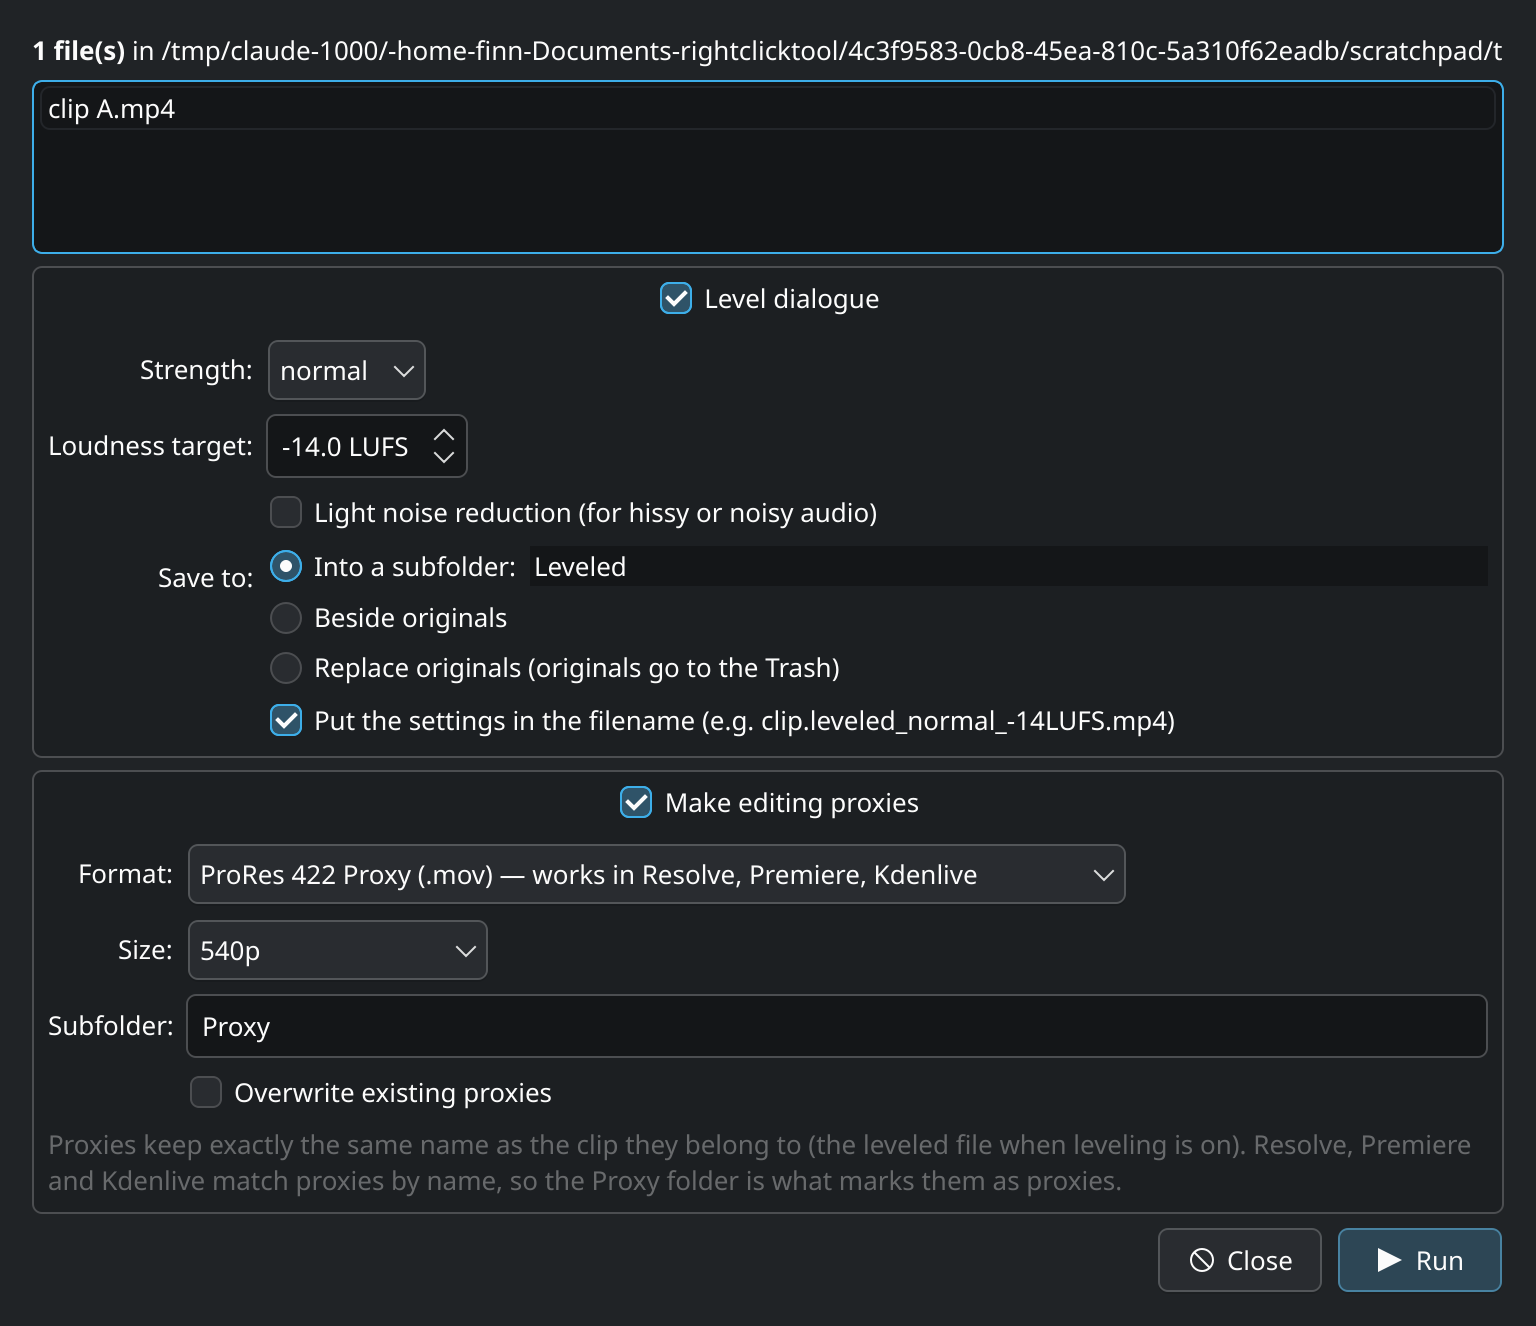
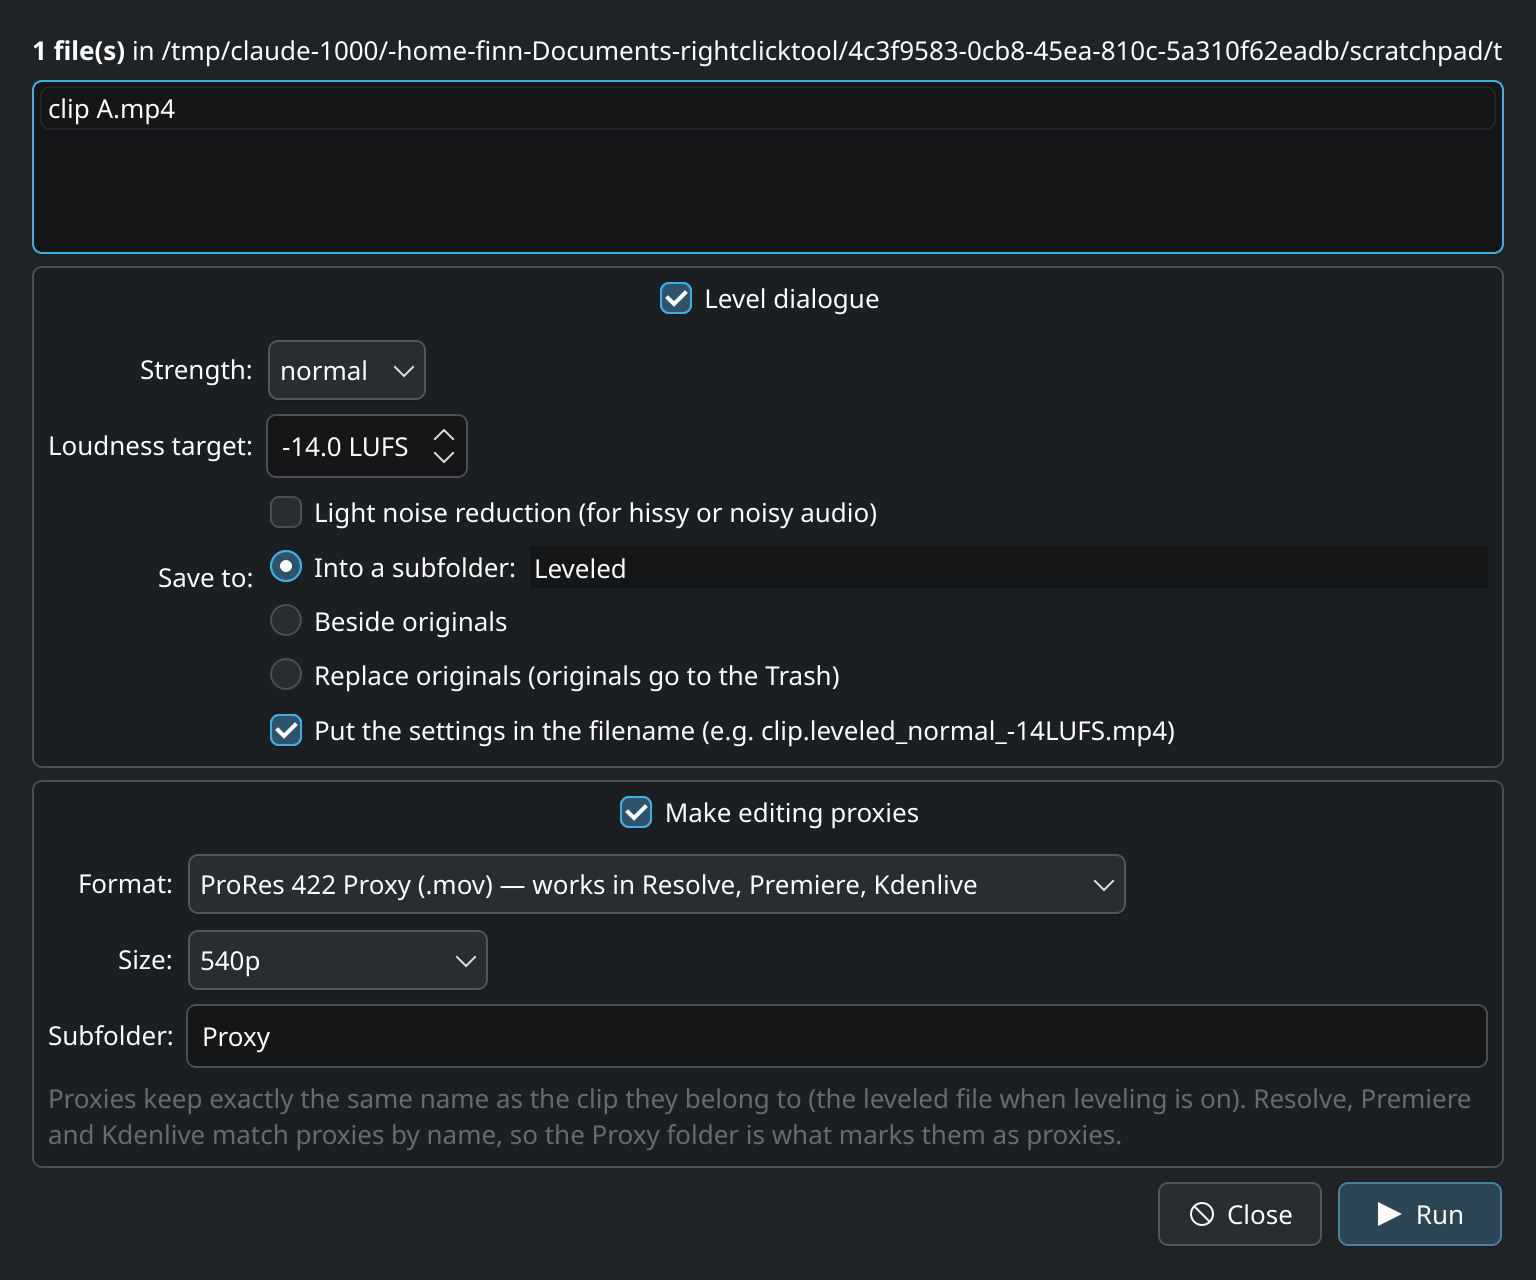
Ask to replace or skip when outputs already exist

diff --git a/SPEC.md b/SPEC.md
@@ -43,7 +43,10 @@ exactly what to do to the selected footage, then runs it with visible progress.
 - Frame rate and audio-track count/channels must match the source (Premiere attach requirement).
 - Size by short side (540/720/1080) or fraction (½, ¼); never upscale; dimensions even.
 - All audio tracks are kept so editors see the same track layout.
-- Existing proxies are skipped unless “Overwrite existing proxies” is ticked.
+- Existing outputs: before the run, check every planned leveled file and proxy. If any exist,
+  show one popup per type (leveled / proxies) listing them, with Replace / Skip existing
+  (default) / Cancel. Skipping a leveled file still uses it as the proxy source. Replace
+  overwrites the old output only after the new one has been written successfully.
 - Audio-only files are skipped for proxies.
 
 ## Open questions / ideas

diff --git a/README.md b/README.md
@@ -19,6 +19,10 @@ right-click → **Footage tools…**, tick what you want, press **Run**.
 Proxy formats: ProRes 422 Proxy `.mov` (default), DNxHR LB `.mov`, H.264 all-intra `.mp4` (smallest, but the free DaVinci Resolve on Linux cannot decode H.264 or AAC).
 Sizes: 540p (default), 720p, 1080p, half, quarter. Portrait clips scale by their short side; never upscales.
 
+If leveled files or proxies already exist where the output would go, a popup lists them and asks
+whether to **Replace** or **Skip existing** (asked separately for leveled files and proxies).
+Skipped leveled files are still used as the source for new proxies.
+
 Your choices are remembered between runs (`~/.config/footage-tools/footage-tools.conf`).
 
 ## Install

diff --git a/CHANGELOG.md b/CHANGELOG.md
@@ -1,5 +1,9 @@
 # Changelog
 
+## 2.3.0 — 2026-11-24
+- Popup when leveled files or proxies already exist in the destination: Replace / Skip existing / Cancel.
+  Replaces the “Overwrite existing proxies” checkbox.
+
 ## 2.2.0 — 2026-11-24
 - Leveled files can carry their settings in the name, e.g. `clip.leveled_normal_denoise_-14LUFS.mp4`
   (on by default; `level-dialogue --name-tags`).
